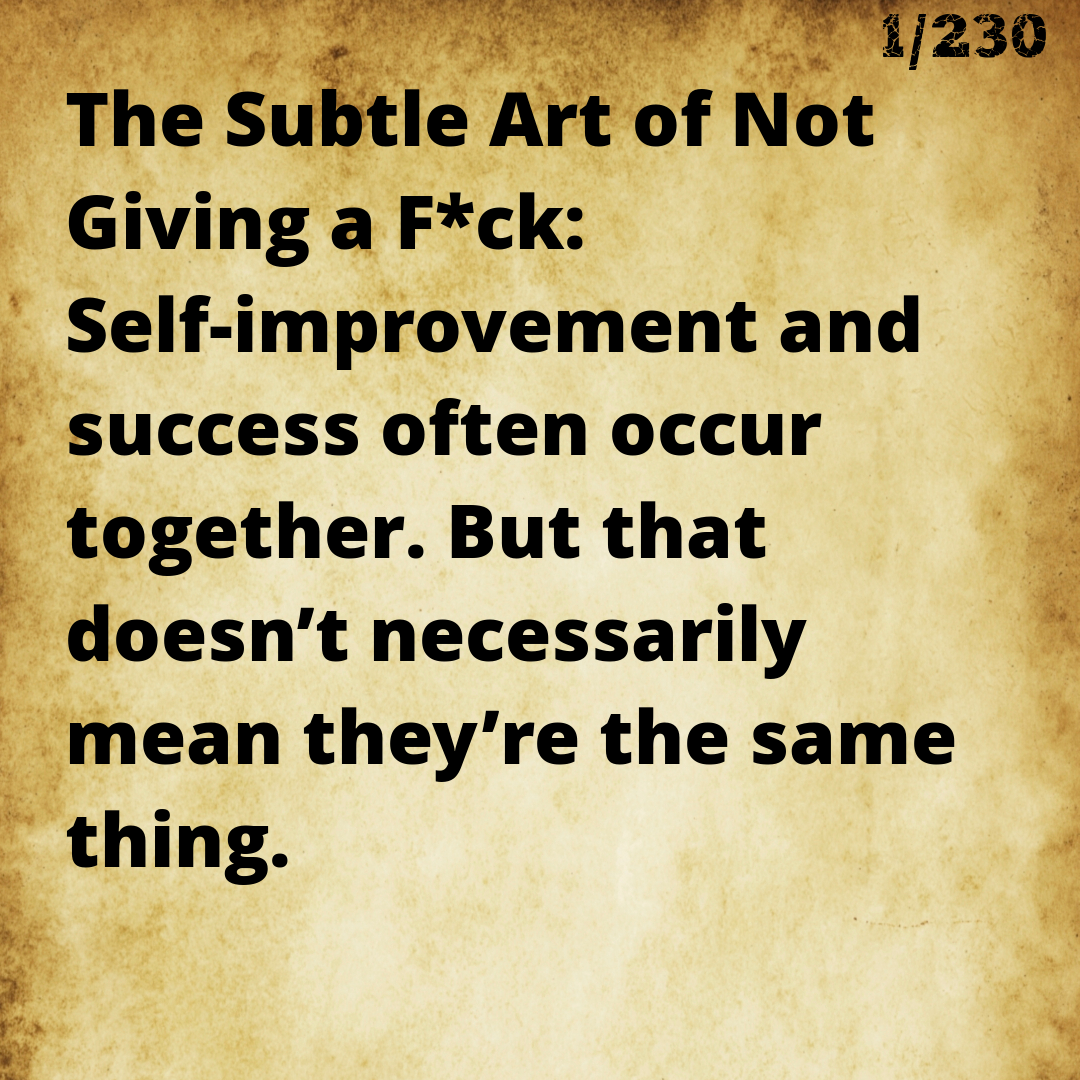
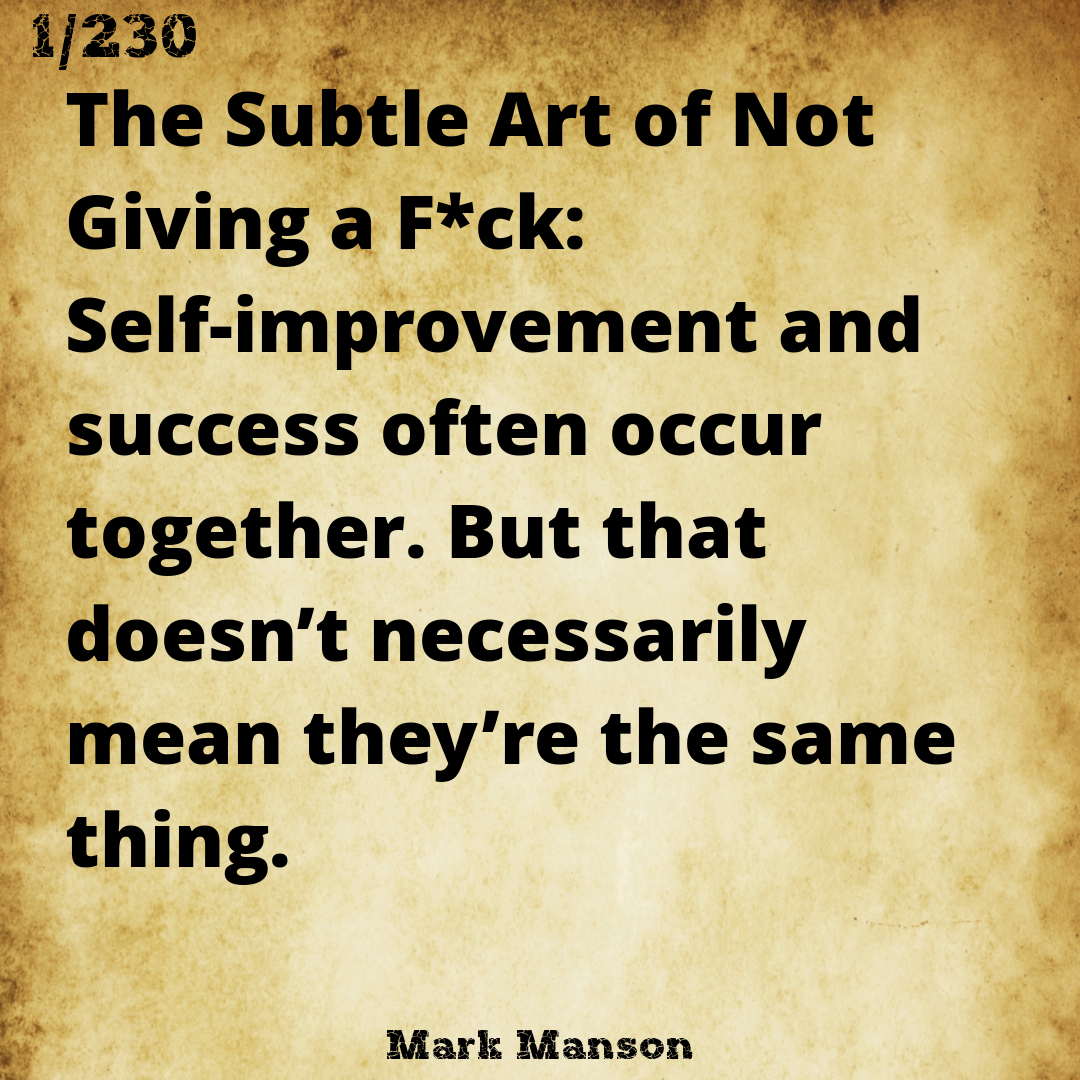
Make Captions From Kindle's 'My Clippings.txt' File And More

Changed region(s): [[0.3361, 0.9472, 0.6417, 1.0], [0.7944, 0.0, 0.9778, 0.0611], [0.0306, 0.0, 0.1833, 0.0611]]

diff --git a/captionBG.py b/captionBG.py
@@ -8,6 +8,11 @@ from subprocess import PIPE, run
 #excerptTitle = 'Robert F. Williams, Negroes With Guns :\n'
 #excerptTitle = 'How to Be an Adult in Relationships:\n'
 excerptTitle = 'The Subtle Art of Not Giving a F*ck:\n'
+#excerptTitle = 'Outrageous Openness:\n'
+#authorsName = 'Tosha Silver'
+authorsName = 'Mark Manson'
+
+externalFileToRegexOver = "My Clippings.txt"
 
 minumumNumberOfWordsForExcerpt = 10
 maxNumberOfWordsForExcerpt = 70
@@ -52,9 +57,9 @@ def paginate (theString, myRange, sumOfPages):
 			
 			theFileName = str (numIterations)+".png"
 			pgNumber = str ( numIterations )+"/"+str( sumOfPages )
+		
 			
-			# Print the excerpt to an image
-			subprocess.call ('convert bgPapaer.jpg \( -size 950x950 -background "rgba(0,0,0,0)" -font /home/lex/share/Mo_De_Studio/audio_blog/OpenSans/OpenSans-ExtraBold.ttf -fill "#000000" caption:"%s" \( +clone -shadow 0x0+0+0 \) +swap -background "rgba(0,0,0,0)" -layers merge +repage \) -gravity center -composite -gravity northeast -pointsize 60 -font /home/lex/share/python/ffmpegHelper/fonts/Typoster_ROCK_ON.otf -annotate +30+0 "%s" %s' % (finalString, pgNumber, theFileName), shell=True )
+			subprocess.call ('convert bgPapaer.jpg \( -size 950x950 -background "rgba(0,0,0,0)" -font /home/lex/share/Mo_De_Studio/audio_blog/OpenSans/OpenSans-ExtraBold.ttf -fill "#000000" caption:"%s" \( +clone -shadow 0x0+0+0 \) +swap -background "rgba(0,0,0,0)" -layers merge +repage \) -gravity center -composite -gravity northwest -pointsize 60 -font /home/lex/share/python/ffmpegHelper/fonts/Typoster_ROCK_ON.otf -annotate +30+0 "%s" -gravity south -pointsize 40 -font /home/lex/share/python/ffmpegHelper/fonts/Typoster_ROCK_ON.otf -annotate +0+10 "%s" %s' % (finalString, pgNumber, authorsName,theFileName), shell=True )
 				
 			print ( finalString )
 			
@@ -92,8 +97,8 @@ def paginate (theString, myRange, sumOfPages):
 	#rint ( pgNumber )
 	
 	print ( finalString )
-	
-	subprocess.call ('convert bgPapaer.jpg \( -size 950x950 -background "rgba(0,0,0,0)" -font /home/lex/share/Mo_De_Studio/audio_blog/OpenSans/OpenSans-ExtraBold.ttf -fill "#000000" caption:"%s" \( +clone -shadow 0x0+0+0 \) +swap -background "rgba(0,0,0,0)" -layers merge +repage \) -gravity center -composite -gravity northeast -pointsize 60 -font /home/lex/share/python/ffmpegHelper/fonts/Typoster_ROCK_ON.otf -annotate +30+0 "%s" %s' % (finalString, pgNumber, theFileName), shell=True )
+		
+	subprocess.call ('convert bgPapaer.jpg \( -size 950x950 -background "rgba(0,0,0,0)" -font /home/lex/share/Mo_De_Studio/audio_blog/OpenSans/OpenSans-ExtraBold.ttf -fill "#000000" caption:"%s" \( +clone -shadow 0x0+0+0 \) +swap -background "rgba(0,0,0,0)" -layers merge +repage \) -gravity center -composite -gravity northwest -pointsize 60 -font /home/lex/share/python/ffmpegHelper/fonts/Typoster_ROCK_ON.otf -annotate +30+0 "%s" -gravity south -pointsize 40 -font /home/lex/share/python/ffmpegHelper/fonts/Typoster_ROCK_ON.otf -annotate +0+10 "%s" %s' % (finalString, pgNumber, authorsName,theFileName), shell=True )
 	
 
 # Count number of pages
@@ -122,13 +127,12 @@ def countNumPages ( theString, myRange ):
 	
 # Open file for regex
 
-externalFile = Path("My Clippings.txt").read_text()
-#externalFile = Path("NWGshare.txt").read_text()
-#externalFile = Path("exTxt.txt").read_text()
+externalFile = Path( externalFileToRegexOver ).read_text()
 	
 #pattern = re.findall(r'^Negroes With Guns[\s\S]+?\d{2}:\d{2} [AP]M\s+([^=]+)', externalFile, re.M )
 #pattern = re.findall(r'^How to Be an Adult[\s\S]+?\d{2}:\d{2} [AP]M\s+([^=]+)', externalFile, re.M )
 pattern = re.findall(r'^The Subtle Art of Not[\s\S]+?\d{2}:\d{2} [AP]M\s+([^=]+)', externalFile, re.M )
+#pattern = re.findall(r'^Outrageous Openness[\s\S]+?\d{2}:\d{2} [AP]M\s+([^=]+)', externalFile, re.M )
 
 sumOfPage=0
 # This variable is to show how many excerpts from the original
